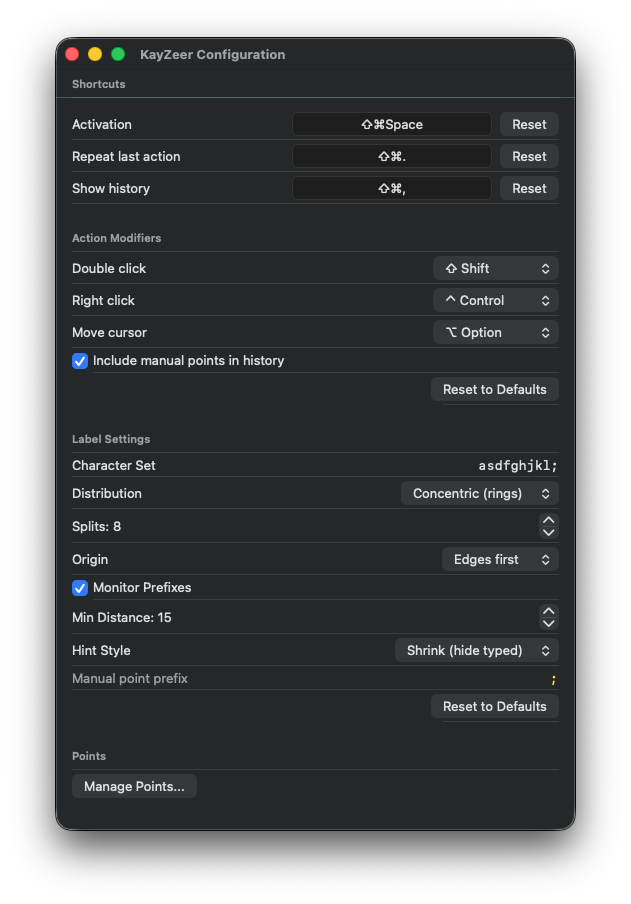
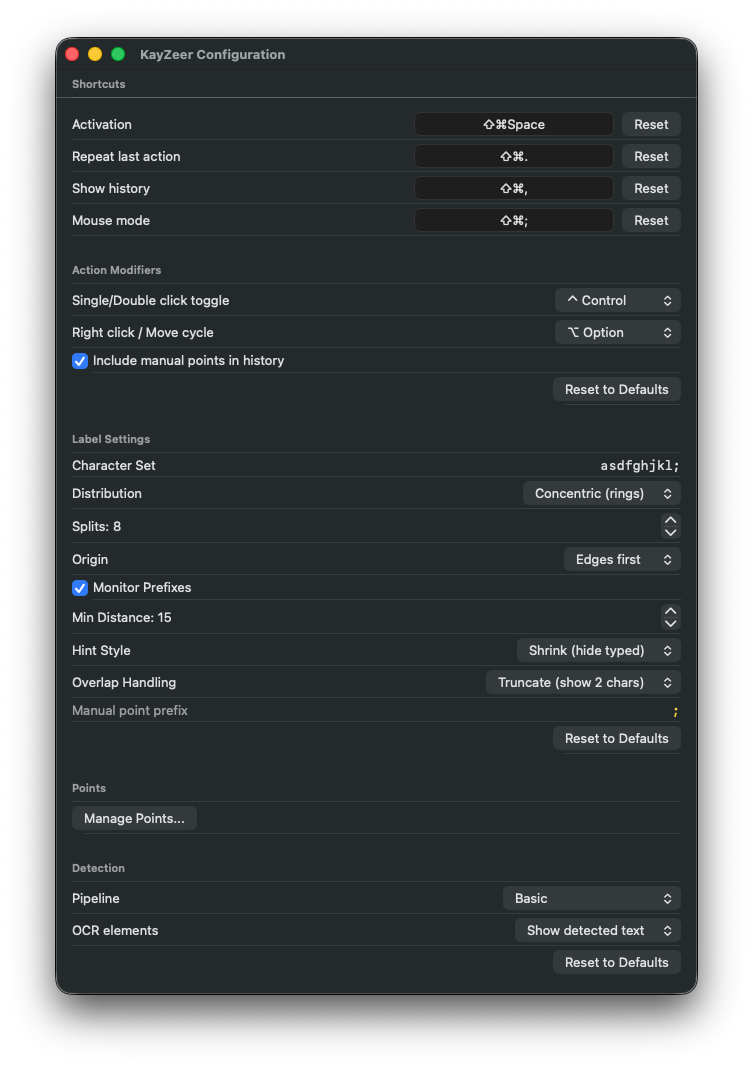
Release 1.2.2

diff --git a/CHANGELOG.md b/CHANGELOG.md
@@ -1,5 +1,15 @@
 # Changelog
 
+## 1.2.2
+
+### Hint Labels
+- New **Overlap Handling** setting — choose between truncating overlapping labels or leaving them as-is
+- Truncate mode shows shortened labels (2 chars + peek) when hints overlap, making dense areas more readable
+- Fixed duplicate hint labels appearing across different screens
+
+### Other
+- Default detection pipeline changed to Basic for faster out-of-box performance
+
 ## 1.2.1
 - Move search/status bar to middle of screen, it was being obscured by the macbook notch.
 
